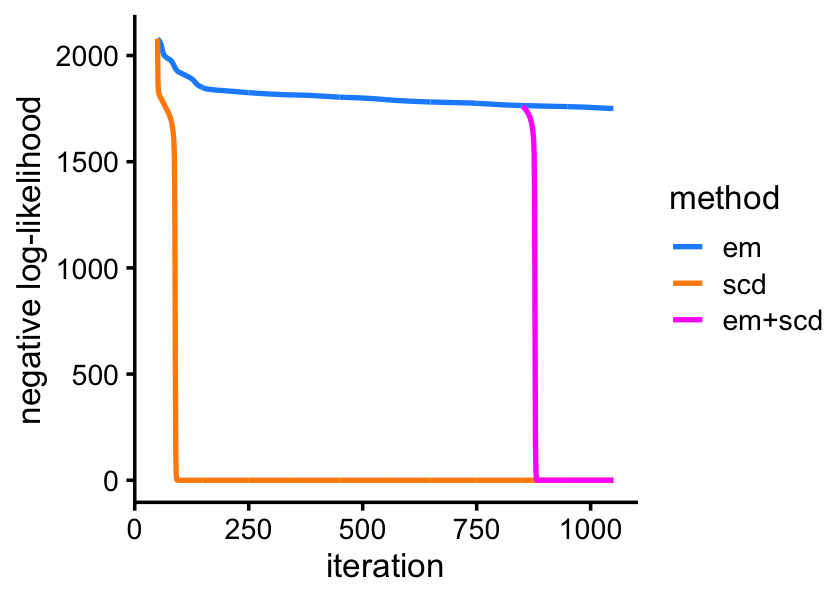
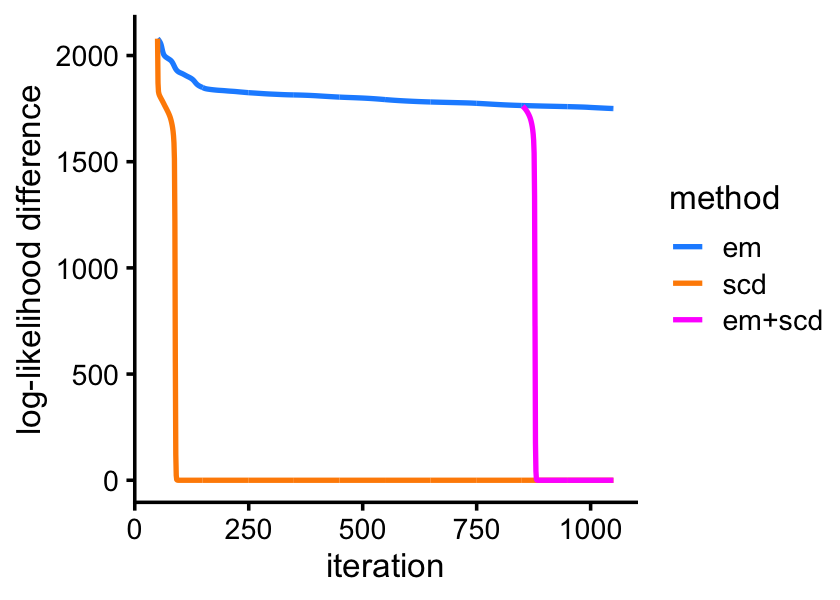
Fixed axis label.

Changed region(s): [[0.0, 0.15, 0.0619, 0.72]]

diff --git a/docs/smallsim.html b/docs/smallsim.html
@@ -414,16 +414,16 @@ This reproducible <a href="http://rmarkdown.rstudio.com">R Markdown</a> analysis
 <div class="panel panel-default">
 <div class="panel-heading">
 <p class="panel-title">
-<a data-toggle="collapse" data-parent="#workflowr-checks" href="#strongRepositoryversionstrongahrefhttpsgithubcomstephenslabfastTopicsexperimentstreeeb2f21d3a79e505932400d0098bb4ce9f5bea43btargetblankeb2f21da"> <span class="glyphicon glyphicon-ok text-success" aria-hidden="true"></span> <strong>Repository version:</strong> <a href="https://github.com/stephenslab/fastTopics-experiments/tree/eb2f21d3a79e505932400d0098bb4ce9f5bea43b" target="_blank">eb2f21d</a> </a>
+<a data-toggle="collapse" data-parent="#workflowr-checks" href="#strongRepositoryversionstrongahrefhttpsgithubcomstephenslabfastTopicsexperimentstreebe1777bc5bab7726fd20bbb831539b5e497e94abtargetblankbe1777ba"> <span class="glyphicon glyphicon-ok text-success" aria-hidden="true"></span> <strong>Repository version:</strong> <a href="https://github.com/stephenslab/fastTopics-experiments/tree/be1777bc5bab7726fd20bbb831539b5e497e94ab" target="_blank">be1777b</a> </a>
 </p>
 </div>
[2 lines of base64/hex data omitted]
 <div class="panel-body">
 <p>
 Great! You are using Git for version control. Tracking code development and connecting the code version to the results is critical for reproducibility.
 </p>
 <p>
-The results in this page were generated with repository version <a href="https://github.com/stephenslab/fastTopics-experiments/tree/eb2f21d3a79e505932400d0098bb4ce9f5bea43b" target="_blank">eb2f21d</a>. See the <em>Past versions</em> tab to see a history of the changes made to the R Markdown and HTML files.
+The results in this page were generated with repository version <a href="https://github.com/stephenslab/fastTopics-experiments/tree/be1777bc5bab7726fd20bbb831539b5e497e94ab" target="_blank">be1777b</a>. See the <em>Past versions</em> tab to see a history of the changes made to the R Markdown and HTML files.
 </p>
 <p>
 Note that you need to be careful to ensure that all relevant files for the analysis have been committed to Git prior to generating the results (you can use <code>wflow_publish</code> or <code>wflow_git_commit</code>). workflowr only checks the R Markdown file, but you know if there are other scripts or data files that it depends on. Below is the status of the Git repository when the results were generated:
@@ -472,6 +472,40 @@ Message
 </tr>
 </thead>
 <tbody>
+<tr>
+<td>
+Rmd
+</td>
+<td>
+<a href="https://github.com/stephenslab/fastTopics-experiments/blob/be1777bc5bab7726fd20bbb831539b5e497e94ab/analysis/smallsim.Rmd" target="_blank">be1777b</a>
+</td>
+<td>
+Peter Carbonetto
+</td>
+<td>
+2021-03-08
+</td>
+<td>
+workflowr::wflow_publish(“smallsim.Rmd”)
+</td>
+</tr>
+<tr>
+<td>
+html
+</td>
+<td>
+<a href="https://rawcdn.githack.com/stephenslab/fastTopics-experiments/1838ec84fe2a117db66b7230c5362b31f6e1c964/docs/smallsim.html" target="_blank">1838ec8</a>
+</td>
+<td>
+Peter Carbonetto
+</td>
+<td>
+2021-03-08
+</td>
+<td>
+Made small change to the plots in the “smallsim” demo.
+</td>
+</tr>
 <tr>
 <td>
 Rmd
@@ -1015,6 +1049,17 @@ Date
 <tbody>
 <tr>
 <td>
+<a href="https://github.com/stephenslab/fastTopics-experiments/blob/1838ec84fe2a117db66b7230c5362b31f6e1c964/docs/figure/smallsim.Rmd/plot-progress-1-1.png" target="_blank">1838ec8</a>
+</td>
+<td>
+Peter Carbonetto
+</td>
+<td>
+2021-03-08
+</td>
+</tr>
+<tr>
+<td>
 <a href="https://github.com/stephenslab/fastTopics-experiments/blob/50f34a9b0fb4a181d1cddd27330afe6e44eeaa5c/docs/figure/smallsim.Rmd/plot-progress-1-1.png" target="_blank">50f34a9</a>
 </td>
 <td>
@@ -1175,7 +1220,7 @@ pdat &lt;- subset(pdat,x &gt;= 50)
 ggplot(pdat,aes(x = x,y = y,color = method)) +
   geom_line(size = 0.75) +
   scale_color_manual(values = c(&quot;dodgerblue&quot;,&quot;darkorange&quot;,&quot;magenta&quot;)) +
-  labs(x = &quot;iteration&quot;,y = &quot;negative log-likelihood&quot;) +
+  labs(x = &quot;iteration&quot;,y = &quot;log-likelihood difference&quot;) +
   theme_cowplot(font_size = 10)</code></pre>
 <p><img src="figure/smallsim.Rmd/plot-progress-2-1.png" width="420" style="display: block; margin: auto;" /></p>
 <p>
@@ -1200,6 +1245,17 @@ Date
 </tr>
 </thead>
 <tbody>
+<tr>
+<td>
+<a href="https://github.com/stephenslab/fastTopics-experiments/blob/1838ec84fe2a117db66b7230c5362b31f6e1c964/docs/figure/smallsim.Rmd/plot-progress-2-1.png" target="_blank">1838ec8</a>
+</td>
+<td>
+Peter Carbonetto
+</td>
+<td>
+2021-03-08
+</td>
+</tr>
 <tr>
 <td>
 <a href="https://github.com/stephenslab/fastTopics-experiments/blob/50f34a9b0fb4a181d1cddd27330afe6e44eeaa5c/docs/figure/smallsim.Rmd/plot-progress-2-1.png" target="_blank">50f34a9</a>
